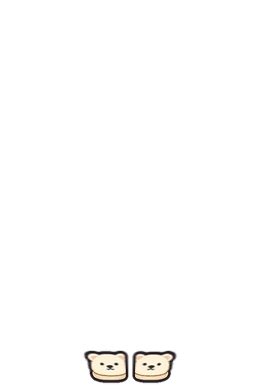
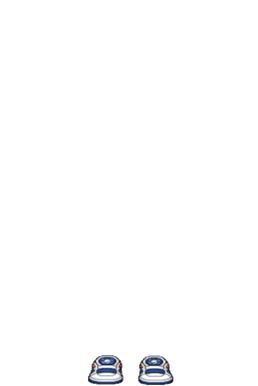
신발을 선생님이 그린 3개로 바꿈(검정 운동화·카모 운동화·파랑 하이탑, 그린 자리 그대로), 눈 '졸린 초롱 눈'·입 '삐죽 입' 추가
Claude-Session: https://claude.ai/code/session_015VxnKS3baGbwJXJNNp74ix

Changed region(s): [[0.3101, 0.9016, 0.6822, 1.0]]

diff --git a/avatar.js b/avatar.js
@@ -13,10 +13,10 @@ const AV_NAMES = {
   top: ["세일러 블라우스", "크림 후드티", "검정 재킷", "분홍 가디건", "고양이 후드티", "흰 셔츠", "곰돌이 니트", "검정 프릴 블라우스", "줄무늬 티", "하얀 패딩", "빨간 망토", "카키 야상", "멜빵 원피스", "검정 후드티", "레이스 블라우스", 
     "검정 도복", "가죽 재킷", "산타 옷", "산타 원피스", "요정 옷", "눈사람 옷", "진저브레드 옷", "루돌프 옷", "트리 스웨터 잠옷", "호두까기 인형 옷", "의사 가운 세트", "요리사 세트", "멜빵바지 세트", "승무원 세트", "기장 세트", 
     "가디건 세트", "흰 가운 세트", "흰 도복 세트", "빨간 로봇 슈트", "소방관 옷", "우주인 점퍼", "군복 셔츠", "요리사 옷", "경찰 제복", "의사 가운", "야구 유니폼", "탐험가 셔츠", "승무원 재킷", "갈색 가디건", "컵케이크 앞치마", "검정 도복 세트", "농구 유니폼", "공룡 잠옷", "소방관 세트", "경찰 세트", "레이싱 슈트", "조종사 슈트", "우주복", "하트 꽈배기 가디건", "체크 교복 재킷", "민트 꽃 블라우스", "보라 별 가디건", "분홍 하트 재킷", "백설 공주 옷", "얼음 공주 옷", "세일러 교복"],
-  shoes: ["맨발", "민트 운동화", "빨간 찍찍이 운동화", "곰돌이 슬리퍼", "검정 운동화", "하늘 고무신발", "남색 슬립온", "갈색 구두", "노란 운동화"],
-  eye: ["기본 눈", "날렵한 눈", "졸린 눈", "웃는 눈", "윙크", "반짝 눈", "울먹 눈", "화난 눈", "옆 보는 눈", "걱정 눈", "놀란 눈", "시큰둥 눈", "하트 눈", "빙글빙글 눈", "속눈썹 눈", "점 눈", "초롱 눈", "울먹 초롱 눈", "질끈 눈", "웃는 초롱 눈", "초롱 윙크"],
+  shoes: ["맨발", "검정 운동화", "카모 운동화", "파랑 하이탑"],
+  eye: ["기본 눈", "날렵한 눈", "졸린 눈", "웃는 눈", "윙크", "반짝 눈", "울먹 눈", "화난 눈", "옆 보는 눈", "걱정 눈", "놀란 눈", "시큰둥 눈", "하트 눈", "빙글빙글 눈", "속눈썹 눈", "점 눈", "초롱 눈", "울먹 초롱 눈", "질끈 눈", "웃는 초롱 눈", "초롱 윙크", "졸린 초롱 눈"],
   cheek: ["볼터치 없음", "볼 정중앙", "콧잔등 + 주근깨", "볼 정중앙 + 주근깨", "빗금 볼터치", "작은 동그라미", "콧잔등", "크게 발그레"],
-  mouth: ["미소", "활짝 웃는 입", "고양이 입", "작은 입", "시무룩 입", "삐뚤 입", "씩 웃는 입", "메롱", "이 보이게 웃기", "놀란 입", "뽀뽀 입", "일자 입", "송곳니 웃음", "울먹 입", "크게 웃는 입", "쪽 입", "살짝 미소"],
+  mouth: ["미소", "활짝 웃는 입", "고양이 입", "작은 입", "시무룩 입", "삐뚤 입", "씩 웃는 입", "메롱", "이 보이게 웃기", "놀란 입", "뽀뽀 입", "일자 입", "송곳니 웃음", "울먹 입", "크게 웃는 입", "쪽 입", "살짝 미소", "삐죽 입"],
   bottom: ["하늘 주름치마", "검정 주름치마", "베이지 반바지", "청반바지", "검정 카고 바지", "회색 운동복 바지", "남색 트레이닝 바지", "분홍 체크 치마", "카키 반바지", "체인 치마", "체크 바지", "연청 반바지", "베이지 카고 반바지", 
     "빨간 운동 반바지", "남색 치마", "체크무늬 반바지", "회색 반바지", "줄무늬 야구 반바지", "물감 청반바지", "갈색 리본 치마"],
 };
@@ -26,9 +26,9 @@ const AV_PRICE = { // 0이면 무료 (기본으로 입는 것)
   pet: [0, 12, 12, 12, 12, 12, 14, 16, 18, 16, 16, 18, 20, 14, 14, 14, 14, 15, 15, 16, 15],
   hair: [9, 8, 8, 8, 0, 6, 6, 8, 0, 8, 7, 6, 10, 10],
   top: [8, 7, 9, 7, 9, 0, 8, 9, 0, 9, 10, 9, 9, 8, 10, 10, 11, 14, 14, 14, 13, 13, 13, 12, 14, 12, 12, 11, 12, 12, 10, 12, 11, 12, 10, 12, 9, 10, 10, 11, 10, 9, 10, 8, 9, 11, 9, 13, 12, 12, 13, 12, 14, 9, 11, 10, 9, 11, 12, 12, 10],
-  shoes: [0, 0, 6, 8, 5, 6, 5, 7, 6],
-  eye: Array(21).fill(0),
-  mouth: Array(17).fill(0),
+  shoes: [0, 0, 6, 6],
+  eye: Array(22).fill(0),
+  mouth: Array(18).fill(0),
   cheek: Array(8).fill(0),
   bottom: [6, 6, 0, 0, 7, 6, 7, 7, 0, 8, 7, 6, 6, 6, 7, 8, 6, 8, 9, 7],
 };
@@ -37,7 +37,7 @@ const AV_REQ = { pet: "pet-0", shoes: "shoes-1", eye: "eye-0", mouth: "mouth-0",
 const AV_ACC = []; // 장신구 칸 (아직 없음)
 const AV_TABS = [["eye", "눈"], ["mouth", "입"], ["cheek", "볼터치"], ["hair", "헤어"], ["top", "상의"], ["bottom", "하의"], ["full", "한벌"], ["shoes", "신발"], ["pet", "펫"]];
 const AV_FULL = new Set(["top-50","top-51","top-52","top-45","top-47","top-48","top-49","top-17","top-18","top-19","top-20","top-21","top-22","top-23","top-24","top-25","top-26","top-27","top-28","top-29","top-30","top-31","top-32"]); // 위아래 한 벌 옷: 입으면 하의를 안 그림. 가게에서는 '한벌' 칸
-const AV_V = "?v=26"; // 그림을 고치면 숫자를 올림 (브라우저에 남은 옛 그림 대신 새로 받게)
+const AV_V = "?v=27"; // 그림을 고치면 숫자를 올림 (브라우저에 남은 옛 그림 대신 새로 받게)
 const AV_HAT = new Set(["hair-12", "hair-13"]); // 모자·헬멧 (헤어 칸): 머리색을 안 칠함, 귀도 안 올림
 const AV_HIDE = new Set(["shoes-0"]); // 가게에 안 보이는 것 (맨발: 그림 없음)
 const avInTab = (it, k) => !AV_HIDE.has(it.id) && (k === "acc" ? AV_ACC.includes(it.slot) : k === "full" ? AV_FULL.has(it.id) : k === "top" ? it.slot === "top" && !AV_FULL.has(it.id) : it.slot === k); // 가게 칸에 보일 물건
@@ -61,5 +61,5 @@ function avPic(av, wear = {}) {
   const ck = avItem(w.cheek).img, cn = +w.cheek.split("-")[1];
   const cheekL = !cn ? "" : `<i style="background:${AV_CHEEK[cc][0]};-webkit-mask-image:url(${ck}${AV_V});mask-image:url(${ck}${AV_V})"></i>` + (AV_FRECK.includes(cn) ? img(ck.replace(".png", "-f.png")) : "");
   // .avp = 펫 칸(378×426), 그 안의 .avb = 아바타 칸(258×386, 위 40·왼쪽 60 띄움). 펫 그림은 펫 칸 크기
-  return `<div class="avp" aria-hidden="true"><div class="avb">${w.shoes !== "shoes-0" ? img(`av/base-${skin}.png`).replace("<img", '<img style="clip-path:inset(0 0 2.6% 0)"') : img(`av/base-${skin}.png`)}${cheekL}${w.shoes !== "shoes-0" ? img(avItem(w.shoes).img).replace("<img", +w.shoes.split("-")[1] <= 8 ? '<img style="transform:translateY(1.2%)"' : "<img") : ""}${[avItem(w.eye).img, avItem(w.mouth).img, !AV_FULL.has(w.top) && avItem(w.bottom).img, avItem(w.top).img].filter(Boolean).map(img).join("")}${hairL}${AV_EAR.has(+w.hair.split("-")[1]) ? img(`av/ear-${skin}.png`) : ""}</div>${w.pet !== "pet-0" ? img(avItem(w.pet).img) : ""}</div>`;
+  return `<div class="avp" aria-hidden="true"><div class="avb">${w.shoes !== "shoes-0" ? img(`av/base-${skin}.png`).replace("<img", '<img style="clip-path:inset(0 0 2.6% 0)"') : img(`av/base-${skin}.png`)}${cheekL}${w.shoes !== "shoes-0" ? img(avItem(w.shoes).img) : ""}${[avItem(w.eye).img, avItem(w.mouth).img, !AV_FULL.has(w.top) && avItem(w.bottom).img, avItem(w.top).img].filter(Boolean).map(img).join("")}${hairL}${AV_EAR.has(+w.hair.split("-")[1]) ? img(`av/ear-${skin}.png`) : ""}</div>${w.pet !== "pet-0" ? img(avItem(w.pet).img) : ""}</div>`;
 }

diff --git a/index.html b/index.html
@@ -1667,7 +1667,7 @@
     <button class="danger" onclick="resetEverything()">모든 데이터 초기화</button>
   </section>
 </div>
-<script src="avatar.js?v=26"></script><!-- 아바타를 고치면 avatar.js의 AV_V와 같이 숫자를 올림 -->
+<script src="avatar.js?v=27"></script><!-- 아바타를 고치면 avatar.js의 AV_V와 같이 숫자를 올림 -->
 <script>
 setTimeout(() => document.body.classList.add("ready"), 2000); // 혹시 아래에서 오류가 나도 2초 뒤엔 카드를 보여 줌
 // 다른 창(듀얼 모니터)으로 뗀 카드: { 카드: { w: 창, c: 카드, mark: 보드에 돌아올 자리, np: 글자 도구 창 } }

diff --git a/student.html b/student.html
@@ -159,7 +159,7 @@
     </div>
   </div>
 </div>
-<script src="avatar.js?v=26"></script><!-- 아바타를 고치면 avatar.js의 AV_V와 같이 숫자를 올림 -->
+<script src="avatar.js?v=27"></script><!-- 아바타를 고치면 avatar.js의 AV_V와 같이 숫자를 올림 -->
 <script type="module">
 // 서버: classes/{반 코드} = { unit, prices } · classes/{반 코드}/kids/{번호}-{비밀번호} = { n, pt, av, wear, own, buys, kidAt } (이름 없음)
 // 점수는 선생님 보드만 바꿈. 가게 물건은 입어 보기만 하다가 저장할 때 삼(buys에 남김). 선생님 보드가 받아서 점수를 뺌
